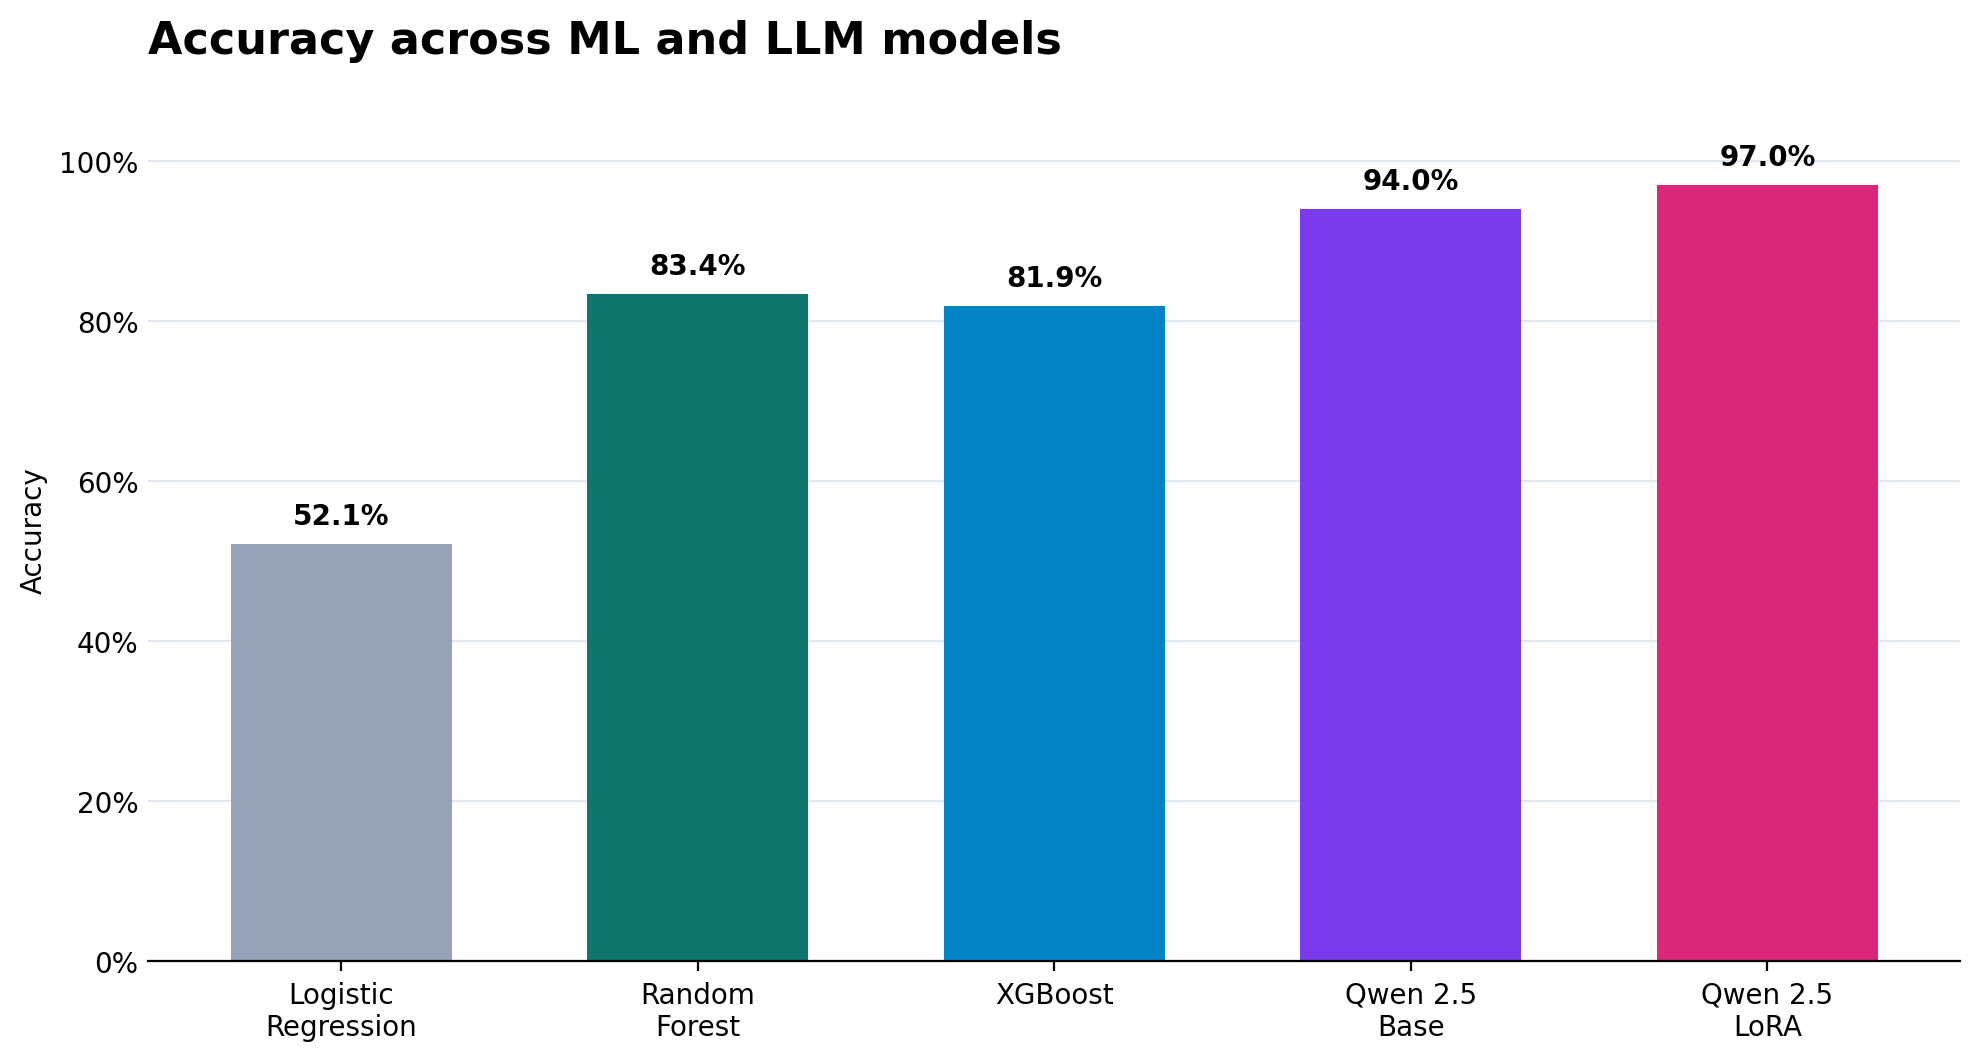
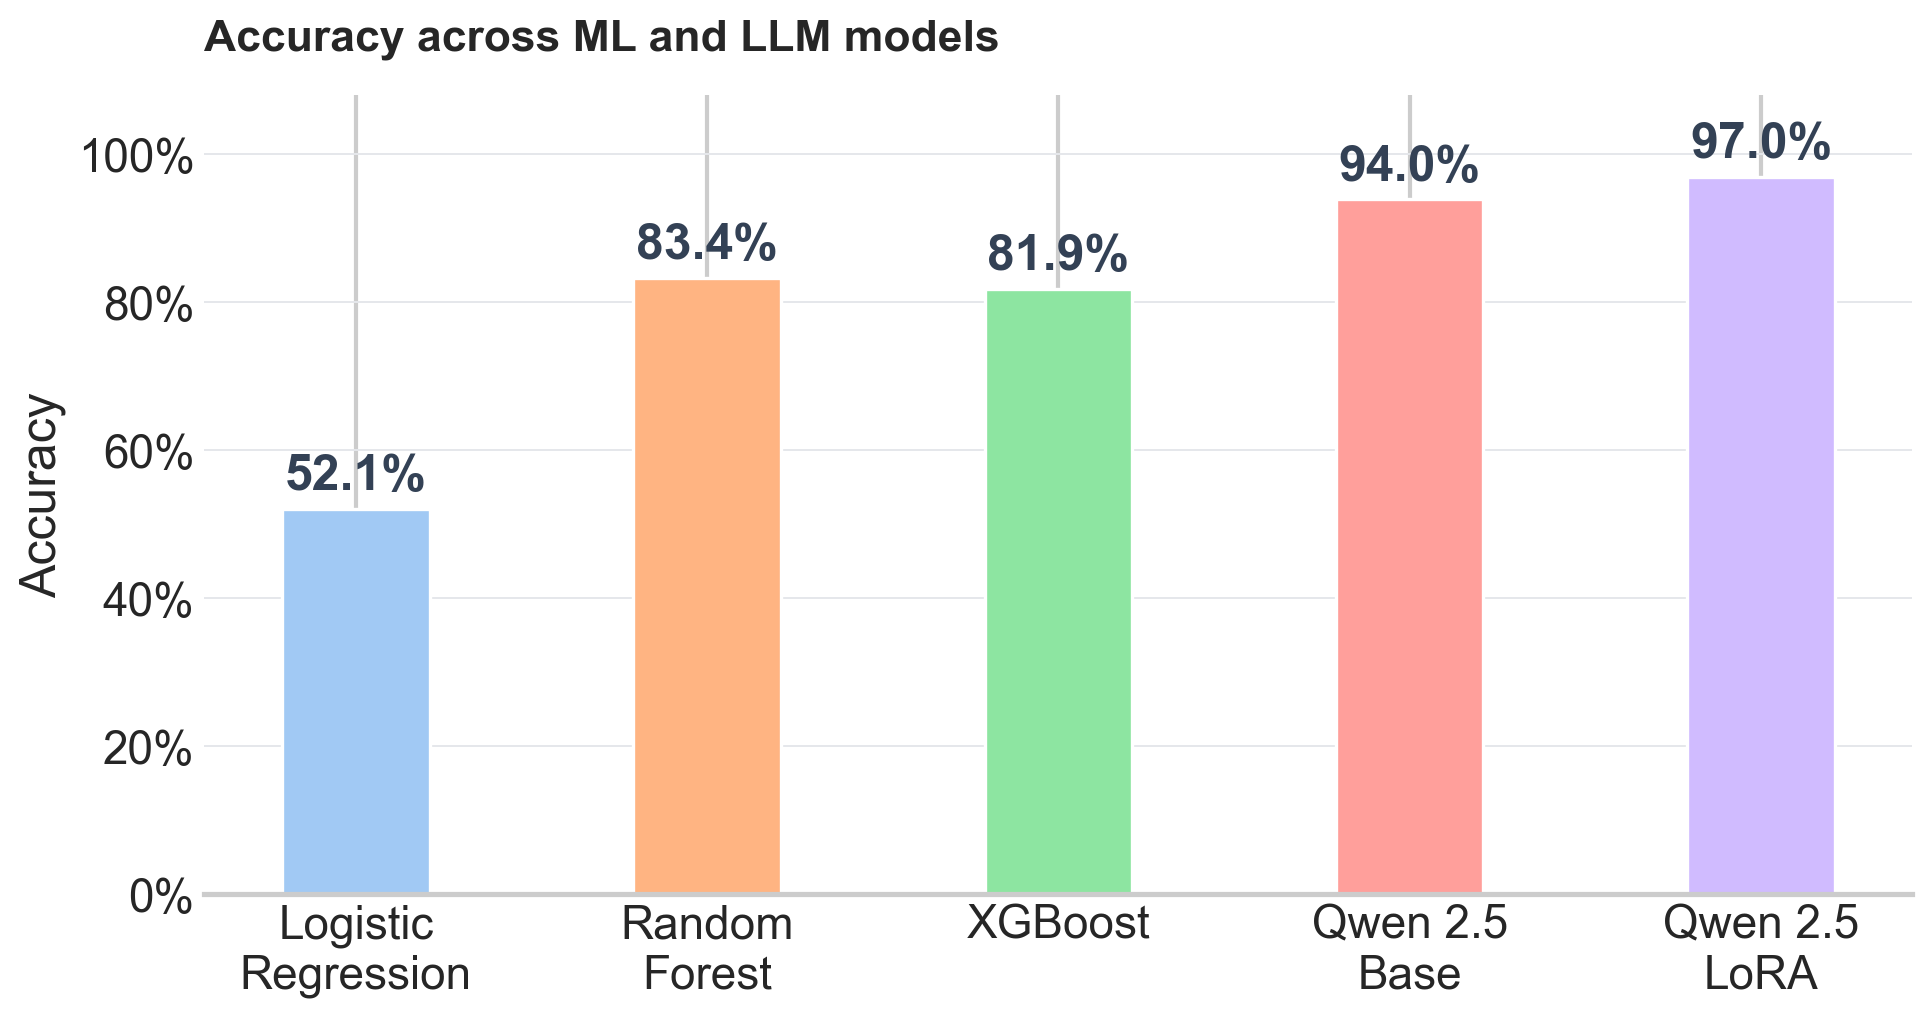
Update Readme

diff --git a/docs/generate_documentation_assets.py b/docs/generate_documentation_assets.py
@@ -4,6 +4,21 @@ import shutil
 import matplotlib.pyplot as plt
 import numpy as np
 
+try:
+    import seaborn as sns
+    sns.set_theme(style="whitegrid", context="talk")
+    PALETTE_ML = sns.color_palette("Blues_d", 3) + sns.color_palette("light:teal", 0)
+    # Soft, muted seaborn palette (5 tones) for the 5 models
+    MODEL_COLORS = sns.color_palette("pastel", 5)
+    METRIC_COLORS = sns.color_palette("muted", 3)
+    STAGE_COLORS = sns.color_palette("pastel", 2)
+except ImportError:
+    sns = None
+    # Fallback: manually chosen soft/light hex tones mimicking seaborn "pastel"
+    MODEL_COLORS = ["#a1c9f4", "#8de5a1", "#ffb482", "#d0bbff", "#fab0e4"]
+    METRIC_COLORS = ["#4c72b0", "#55a868", "#c44e52"]
+    STAGE_COLORS = ["#a1c9f4", "#8de5a1"]
+
 
 ROOT_DIR = Path(__file__).resolve().parent.parent
 IMAGE_DIR = Path(__file__).resolve().parent / "images"
@@ -17,15 +32,17 @@ METRICS = {
     "F1 Score": [0.583243, 0.817283, 0.785476, 0.922237, 0.967195],
 }
 
-COLORS = ["#94a3b8", "#0f766e", "#0284c7", "#7c3aed", "#db2777"]
+BAR_WIDTH_SINGLE = 0.42   # thin single-series bars
+BAR_WIDTH_GROUPED = 0.18  # thin grouped bars
 
 
 def style_chart(ax, title: str) -> None:
     ax.set_title(title, loc="left", fontsize=16, fontweight="bold", pad=16)
     ax.spines[["top", "right", "left"]].set_visible(False)
-    ax.grid(axis="y", color="#e2e8f0", linewidth=0.8)
+    ax.grid(axis="y", color="#e5e7eb", linewidth=0.7)
     ax.set_axisbelow(True)
     ax.tick_params(axis="y", length=0)
+    ax.tick_params(axis="x", length=0)
 
 
 def save_figure(name: str) -> None:
@@ -36,23 +53,31 @@ def save_figure(name: str) -> None:
 
 def create_accuracy_chart() -> None:
     fig, ax = plt.subplots(figsize=(10, 5.4))
-    bars = ax.bar(MODELS, ACCURACY, color=COLORS, width=0.62)
+    bars = ax.bar(
+        MODELS, ACCURACY,
+        color=MODEL_COLORS, width=BAR_WIDTH_SINGLE,
+        edgecolor="white", linewidth=1.2,
+    )
     style_chart(ax, "Accuracy across ML and LLM models")
     ax.set_ylim(0, 1.08)
     ax.set_ylabel("Accuracy")
     ax.yaxis.set_major_formatter("{x:.0%}")
     for bar, value in zip(bars, ACCURACY):
-        ax.text(bar.get_x() + bar.get_width() / 2, value + 0.025, f"{value:.1%}", ha="center", fontweight="bold")
+        ax.text(bar.get_x() + bar.get_width() / 2, value + 0.025, f"{value:.1%}",
+                 ha="center", fontweight="bold", color="#334155")
     save_figure("model_accuracy_comparison.png")
 
 
 def create_metrics_chart() -> None:
     fig, ax = plt.subplots(figsize=(11.5, 6))
     x = np.arange(len(MODELS))
-    width = 0.23
-    metric_colors = ["#0f766e", "#0284c7", "#7c3aed"]
+    width = BAR_WIDTH_GROUPED
     for index, (metric, values) in enumerate(METRICS.items()):
-        ax.bar(x + (index - 1) * width, values, width, label=metric, color=metric_colors[index])
+        ax.bar(
+            x + (index - 1) * width, values, width,
+            label=metric, color=METRIC_COLORS[index],
+            edgecolor="white", linewidth=1.0,
+        )
     style_chart(ax, "Weighted precision, recall, and F1 score")
     ax.set_ylim(0, 1.08)
     ax.set_ylabel("Score")
@@ -67,14 +92,19 @@ def create_preprocessing_chart() -> None:
     fig, ax = plt.subplots(figsize=(8.8, 5.2))
     stages = ["Raw reviews", "After validation"]
     values = [701_528, 693_547]
-    bars = ax.bar(stages, values, color=["#94a3b8", "#0f766e"], width=0.52)
+    bars = ax.bar(
+        stages, values, color=STAGE_COLORS, width=BAR_WIDTH_SINGLE,
+        edgecolor="white", linewidth=1.2,
+    )
     style_chart(ax, "Preprocessing retention after validation")
     ax.set_ylim(0, 800_000)
     ax.set_ylabel("Review count")
     ax.yaxis.set_major_formatter("{x:,.0f}")
     for bar, value in zip(bars, values):
-        ax.text(bar.get_x() + bar.get_width() / 2, value + 20_000, f"{value:,}", ha="center", fontweight="bold")
-    ax.text(0.5, 90_000, "7,981 records removed: missing reviews and duplicates", ha="center", color="#475569")
+        ax.text(bar.get_x() + bar.get_width() / 2, value + 20_000, f"{value:,}",
+                 ha="center", fontweight="bold", color="#334155")
+    ax.text(0.5, 90_000, "7,981 records removed: missing reviews and duplicates",
+             ha="center", color="#64748b")
     save_figure("preprocessing_retention.png")
 
 
